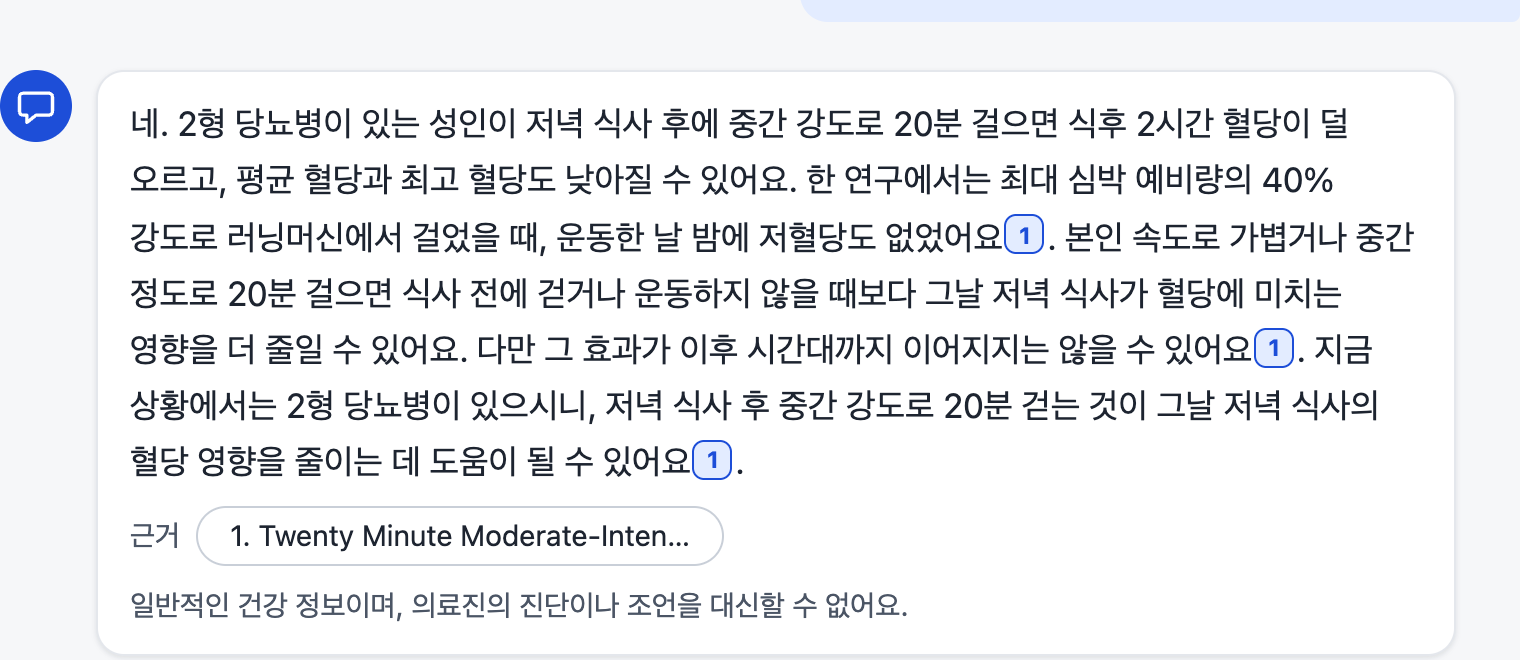
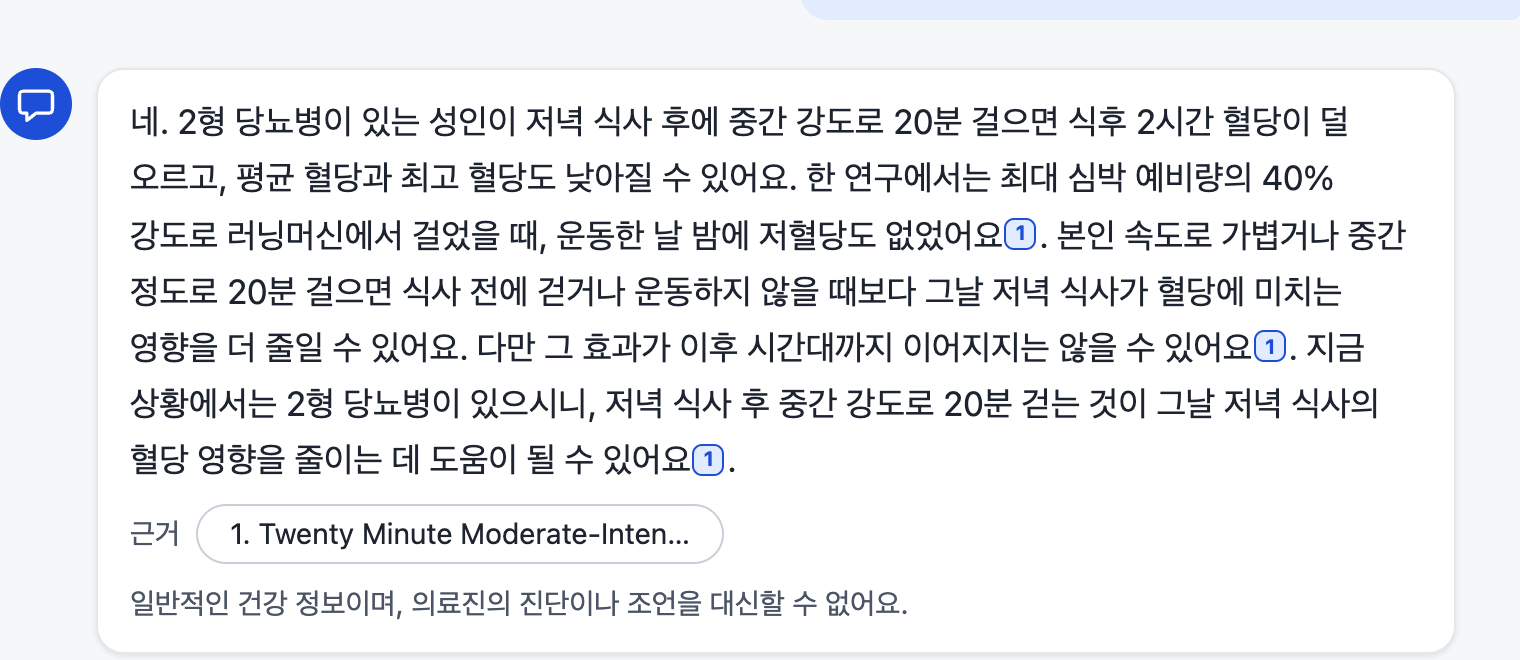
Login header: type 2 diabetes name and short description; citation number box 16px; screenshots refreshed

diff --git a/web/i18n.js b/web/i18n.js
@@ -5,7 +5,7 @@ const K=(ko,en)=>LANG==='en'?en:ko;
 document.documentElement.lang=LANG;
 const EN={
  /* sign-in */
- '식단/운동 코치 로그인':'Diet & Exercise Coach sign in','식단/운동 코치':'Diet & Exercise Coach','내 건강 상태에 맞춰 식사와 운동을 함께 살펴봐 드려요.':'Meals and exercise, checked against your own health.',
+ '제2형 당뇨병 식단 및 신체활동 코치 로그인':'Type 2 Diabetes Diet & Activity Coach sign in','제2형 당뇨병 식단 및 신체활동 코치':'Type 2 Diabetes Diet & Activity Coach','논문 근거로 내 건강 상태에 맞는 식단과 운동을 알려 드려요. 고령 사용자도 쓰기 쉽고 안전하게 만들었어요.':'Paper-based diet and exercise guidance that fits your health, made to be easy and safe for older adults.','식단/운동 코치 로그인':'Diet & Exercise Coach sign in','식단/운동 코치':'Diet & Exercise Coach','내 건강 상태에 맞춰 식사와 운동을 함께 살펴봐 드려요.':'Meals and exercise, checked against your own health.',
  '로그인과 가입':'Sign in and sign up','로그인':'Sign in','가입하기':'Sign up','아이디':'Username','비밀번호':'Password','계정 만들기':'Create account','표시 이름':'Display name',
  '예: 길동':'e.g. Alex','AI에게는 이름을 보내지 않아요.':'Your name is never sent to the AI.','영문 소문자, 숫자, 밑줄(_) 4~20자':'4–20 characters: lowercase letters, numbers, underscore (_)',
  '8자 이상, 문자와 숫자를 함께 사용해 주세요.':'At least 8 characters, with letters and numbers.','답변을 내 상황에 맞게 드리는 데 사용해요. 나중에 언제든 바꿀 수 있어요.':'Used to tailor answers to you. You can change it later.',

diff --git a/web/index.html b/web/index.html
@@ -28,7 +28,7 @@ html,body{height:100%}body{overflow:hidden}
 .row{display:flex;gap:var(--s3);align-items:flex-start}.row.me{justify-content:flex-end}
 .bubble{background:var(--brand-soft);color:var(--ink);padding:var(--s3) var(--s4);border-radius:var(--r-md) var(--r-md) 4px var(--r-md);max-width:82%;white-space:pre-wrap}
 .bot{flex:0 1 auto;min-width:0;display:flex;flex-direction:column;gap:var(--s2);max-width:680px;background:var(--surface);border:1px solid var(--line);border-radius:var(--r-md);padding:var(--s3) var(--s4);box-shadow:var(--sh-1)}.bot p+p{margin-top:var(--s3)}.bot .txt{white-space:pre-wrap}
-.cite{position:relative;min-width:20px;min-height:20px;margin:0 1px;padding:0 4px;border-radius:6px;border:1px solid var(--brand);background:var(--brand-soft);color:var(--brand);font:inherit;font-size:.68rem;line-height:1;font-weight:700;cursor:pointer;vertical-align:.25em}.cite::after{content:"";position:absolute;inset:-8px -5px}
+.cite{position:relative;min-width:16px;min-height:16px;margin:0 1px;padding:0 3px;border-radius:5px;border:1px solid var(--brand);background:var(--brand-soft);color:var(--brand);font:inherit;font-size:.6rem;line-height:1.15;font-weight:700;cursor:pointer;vertical-align:.3em}.cite::after{content:"";position:absolute;inset:-8px -5px}
 .srcs{display:flex;flex-wrap:wrap;gap:var(--s2);align-items:center}.srcs .chip{min-height:30px;font-size:var(--fs-sm)}
 .note{display:flex;align-items:center;gap:6px;font-size:var(--fs-sm);color:var(--ink-2)}.note .icon{width:16px;height:16px}
 .dots{display:inline-flex;gap:5px;padding:var(--s2) 0}.dots i{width:8px;height:8px;border-radius:50%;background:var(--ink-2);animation:bl 1.2s infinite}.dots i:nth-child(2){animation-delay:.2s}.dots i:nth-child(3){animation-delay:.4s}

diff --git a/web/login.html b/web/login.html
@@ -1,6 +1,6 @@
 <!doctype html>
 <html lang="ko"><head><meta charset="utf-8"><meta name="viewport" content="width=device-width, initial-scale=1, viewport-fit=cover">
-<title>식단/운동 코치 로그인</title><meta name="theme-color" content="#1D4ED8"><link rel="icon" href="/icon.svg" type="image/svg+xml">
+<title>제2형 당뇨병 식단 및 신체활동 코치 로그인</title><meta name="theme-color" content="#1D4ED8"><link rel="icon" href="/icon.svg" type="image/svg+xml">
 <link rel="stylesheet" href="/ds.css">
 <style>
 body{min-height:100vh;display:grid;place-items:center;padding:var(--s5) var(--s4)}
@@ -26,7 +26,7 @@ form{display:flex;flex-direction:column;gap:var(--s4)}
 <div class="lang lang-corner" id="lang" role="group"></div>
 <main class="wrap">
  <header class="brand"><div class="mark" aria-hidden="true"><svg class="icon"><use href="#i-leaf"/></svg></div>
-  <h1 style="font-size:var(--fs-2xl)">식단/운동 코치</h1><p class="muted">내 건강 상태에 맞춰 식사와 운동을 함께 살펴봐 드려요.</p></header>
+  <h1 style="font-size:var(--fs-2xl)">제2형 당뇨병 식단 및 신체활동 코치</h1><p class="muted">논문 근거로 내 건강 상태에 맞는 식단과 운동을 알려 드려요. 고령 사용자도 쓰기 쉽고 안전하게 만들었어요.</p></header>
 
  <section class="card panel" aria-label="로그인과 가입">
   <div class="tabs" role="tablist"><button role="tab" id="tabIn" aria-selected="true" aria-controls="formIn">로그인</button><button role="tab" id="tabUp" aria-selected="false" aria-controls="formUp">가입하기</button></div>
